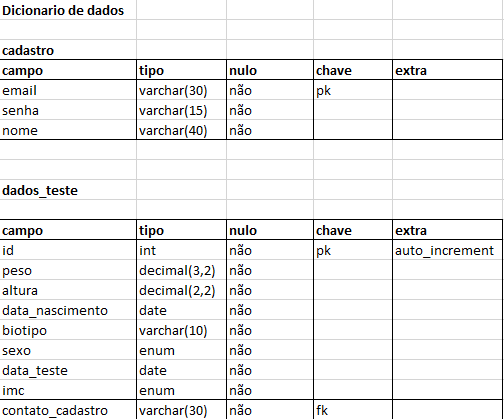
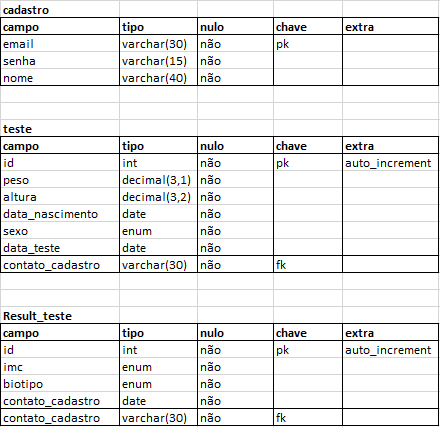
Fazendo sistema de cadastro sem iniciar teste

Changed region(s): [[0.0, 0.0, 1.0, 1.0]]

diff --git a/documentacao.html b/documentacao.html
@@ -253,7 +253,6 @@
             <textarea class="form-control" id="exampleFormControlTextarea1" rows="3">
                 create database guder_saude;
                 use guder_saude;
-                drop database guder_saude;
                 
                 create table cadastro(
                 email varchar(30) not null primary key,
@@ -261,18 +260,28 @@
                 nome varchar(40) not null
                 );
                 
-                create table dados_teste(
+                create table teste(
                 id int not null primary key auto_increment,
                 peso decimal(3,1) not null,		
                 altura decimal(3,2) not null,		
                 data_nascimento date not null, 		
-                biotipo	enum('endomorfo', 'mesomorfo', 'ectomorfo') not null,		
-                sexo enum ('feminino', 'masculino'), 		
-                data_teste	date not null, 		
-                imc	enum  ('abaixo','ideal','sobre peso','obsidade'),		
+                sexo enum ('f', 'm') not null, 		
+                data_teste	date not null, 			
                 contato_cadastro varchar(30) not null,	
                 foreign key (contato_cadastro) references cadastro(email)
                 );
+                
+                create table result_teste(
+                id int not null primary key auto_increment,
+                imc	enum  ('abaixo','ideal','sobre peso','obsidade I', 'obsidade II', 'obesidade III') not null,	
+                biotipo	enum('endomorfo', 'mesomorfo', 'ectomorfo') not null,
+                contato_cadastro varchar(30) not null,	
+                foreign key (contato_cadastro) references cadastro(email)
+                );
+                
+                insert into cadastro values ('kael@kael','123','kael');
+                insert into teste values ('1','80','1.70','2003/11/08','m',curdate(),'kael@kael'); 
+                insert into result_teste values ('1','ideal','ectomorfo', 'kael@kael');
 
             </textarea>
         </div>
@@ -301,7 +310,8 @@
             Semana 16/08->02/09 v03
         </h3>
         <h6>
-            Tela de teste do Biotipo feita; <br> Tela teste de imc feita <br> Back-end de login com session feita <br> Texto introdutivo temporario feito; <br> 3 perguntas do questionario incrementada;
+            Tela de teste do Biotipo feita; <br> Tela teste de imc feita; <br> Back-end de login com session feita; <br> Texto introdutivo temporario feito; <br> 3 perguntas do questionario incrementada; <br> Inicio do sistema de teste, com os dados de
+            IMC já indo para o banco de dados; <br> Houve nescidade de modificar o banco de dados, dividindo a tabela 'dados_teste', em duas tabelas 'teste' e 'result_teste' ;
 
         </h6>
 

diff --git a/login.html b/login.html
@@ -7,6 +7,8 @@
     <meta name="viewport" content="width=device-width, initial-scale=1.0">
     <link rel="stylesheet" href="./CSS/responsive.css">
     <link rel="stylesheet" href="./CSS/Login-cad.css">
+    <script src="./JavaScript/login.js"></script>
+    <script src="https://code.jquery.com/jquery-3.6.0.min.js" integrity="sha256-/xUj+3OJU5yExlq6GSYGSHk7tPXikynS7ogEvDej/m4=" crossorigin="anonymous"></script>
     <link href="https://cdn.jsdelivr.net/npm/bootstrap@5.1.0/dist/css/bootstrap.min.css" rel="stylesheet" integrity="sha384-KyZXEAg3QhqLMpG8r+8fhAXLRk2vvoC2f3B09zVXn8CA5QIVfZOJ3BCsw2P0p/We" crossorigin="anonymous">
     <script src="https://cdn.jsdelivr.net/npm/bootstrap@5.1.0/dist/js/bootstrap.bundle.min.js" integrity="sha384-U1DAWAznBHeqEIlVSCgzq+c9gqGAJn5c/t99JyeKa9xxaYpSvHU5awsuZVVFIhvj" crossorigin="anonymous"></script>
     <title>Login - Guder Saúde</title>
@@ -19,22 +21,26 @@
                 <img src="./IMGs/logo.png" alt="logo">
             </div>
             <div id="input-label">
-                <form action="#" method="post">
+                <form action="" method="post" id="logar">
                     <div class="form-floating mb-3">
-                        <input type="email" class="form-control" id="floatingInput" placeholder="Email@exemple.com">
+                        <input type="email" class="form-control" id="floatingInput" placeholder="Email@exemple.com" name="email">
                         <label for="floatingInput">Email</label>
                     </div>
                     <div class="form-floating">
-                        <input type="password" class="form-control" id="floatingPassword" placeholder="Senha">
+                        <input type="password" class="form-control" id="floatingPassword" placeholder="Senha" name="senha">
                         <label for="floatingPassword">Senha</label>
                     </div>
+
                     <p class="text-center" id="txt-cad">
                         Ei! É novo aqui? <a href="./cadastro.html"> Cadastre-se</a>
                     </p>
-                    <div class="text-center" id="bt-position">
-                        <button type="button" id="bt-entrar" class="btn btn-primary">ENTRAR</button>
-                    </div>
 
+                    <div class="text-center" id="bt-position">
+                        <button type="button" id="bt-entrar" class="btn btn-primary" onclick="login()">ENTRAR</button>
+                        <p style="color: red; margin-top: 20px;" id="resposta-login" class="text-center">
+
+                        </p>
+                    </div>
 
                 </form>
 

diff --git a/JavaScript/login.js b/JavaScript/login.js
@@ -1,0 +1,81 @@
+function login() {
+
+
+    var dados = $('#logar').serialize();
+    $.ajax({
+            method: 'POST',
+            url: './PHP/logar.php',
+            data: dados,
+
+            beforeSend: function() {
+
+                $("#bt-entrar").html("Por favor, aguarde...");
+
+            }
+
+        })
+        .done(function(msg) {
+
+            $("#bt-entrar").html("ENTRAR");
+
+            if (msg == "logado") {
+
+                location.href = "./index.php";
+
+            } else {
+                $("#resposta-login").html(msg);
+            }
+
+
+        })
+
+    .fail(function() {
+
+
+        $("##resposta-login").html("Erro desconhecido");
+
+    })
+    return false;
+
+}
+
+function login2() {
+
+
+    var dados = $('#logar').serialize();
+    $.ajax({
+            method: 'POST',
+            url: './PHP/logar.php',
+            data: dados,
+
+            beforeSend: function() {
+
+                $("#bt-entrar").html("Por favor, aguarde...");
+
+            }
+
+        })
+        .done(function(msg) {
+
+            $("#bt-entrar").html("ENTRAR");
+
+            if (msg == "logado") {
+
+                location.href = "./teste_imc.html";
+
+            } else {
+                $("#resposta-login").html(msg);
+            }
+
+
+        })
+
+    .fail(function() {
+
+
+        $("##resposta-login").html("Erro desconhecido");
+
+    })
+    return false;
+
+}

diff --git a/JavaScript/main.js b/JavaScript/main.js
@@ -39,42 +39,3 @@ function cadastrar() {
     return false;
 
 }
-
-function logar() {
-
-    var dados = $('#login').serialize();
-    $.ajax({
-            method: 'POST',
-            url: './PHP/logar.php',
-            data: dados,
-
-            beforeSend: function() {
-
-                $("#bt-entrar").html("Por favor, aguarde...");
-
-            }
-
-        })
-        .done(function(msg) {
-            if (msg == "logado") {
-
-                location.href = '../teste_imc.html'
-
-
-            } else {
-                $("#resposta-login").html(msg);
-
-                $("#bt-entrar").html("ENTRAR");
-            }
-
-        })
-
-    .fail(function() {
-
-        $("#resposta-login").html("Falha ao entrar");
-
-    })
-    return false;
-
-
-}

diff --git a/index.php b/index.php
@@ -1,3 +1,7 @@
+<?php session_start(); ?>
+
+
+
 <!DOCTYPE html>
 <html lang="pt-br">
 
@@ -6,8 +10,10 @@
     <meta http-equiv="X-UA-Compatible" content="IE=edge">
     <meta name="viewport" content="width=device-width, initial-scale=1.0">
     <script src="./JavaScript/main.js"></script>
+    <script src="./JavaScript/login.js"></script>
     <link rel="stylesheet" href="./CSS/style.css">
     <link rel="stylesheet" href="./CSS/responsive.css">
+    <script src="https://code.jquery.com/jquery-3.6.0.min.js" integrity="sha256-/xUj+3OJU5yExlq6GSYGSHk7tPXikynS7ogEvDej/m4=" crossorigin="anonymous"></script>
     <link href="https://cdn.jsdelivr.net/npm/bootstrap@5.1.0/dist/css/bootstrap.min.css" rel="stylesheet" integrity="sha384-KyZXEAg3QhqLMpG8r+8fhAXLRk2vvoC2f3B09zVXn8CA5QIVfZOJ3BCsw2P0p/We" crossorigin="anonymous">
     <script src="https://cdn.jsdelivr.net/npm/bootstrap@5.1.0/dist/js/bootstrap.bundle.min.js" integrity="sha384-U1DAWAznBHeqEIlVSCgzq+c9gqGAJn5c/t99JyeKa9xxaYpSvHU5awsuZVVFIhvj" crossorigin="anonymous"></script>
     <title>GUDER SAUDE - TESTE</title>
@@ -33,15 +39,14 @@
                         </li>
                         <li class="nav-item">
                             <div class="dropdown">
-                                <button type="submit" class="btn btn-outline-success rounded-circle " type="button" id="dropdownMenuButton1" data-bs-toggle="dropdown" aria-expanded="false"><svg  xmlns="http://www.w3.org/2000/svg" width="16" height="16" fill="currentColor" class="bi bi-person-circle" viewBox="0 0 16 16">
-                                    <path d="M11 6a3 3 0 1 1-6 0 3 3 0 0 1 6 0z" />
-                                    <path fill-rule="evenodd"
-                                        d="M0 8a8 8 0 1 1 16 0A8 8 0 0 1 0 8zm8-7a7 7 0 0 0-5.468 11.37C3.242 11.226 4.805 10 8 10s4.757 1.225 5.468 2.37A7 7 0 0 0 8 1z" />
-                                </svg></button>
+                                <button type="submit" class="btn btn-outline-success rounded-circle " type="button" id="dropdownMenuButton1" data-bs-toggle="dropdown" aria-expanded="false"><svg xmlns="http://www.w3.org/2000/svg" width="16" height="16" fill="currentColor" class="bi bi-person-circle" viewBox="0 0 16 16">
+                                        <path d="M11 6a3 3 0 1 1-6 0 3 3 0 0 1 6 0z" />
+                                        <path fill-rule="evenodd" d="M0 8a8 8 0 1 1 16 0A8 8 0 0 1 0 8zm8-7a7 7 0 0 0-5.468 11.37C3.242 11.226 4.805 10 8 10s4.757 1.225 5.468 2.37A7 7 0 0 0 8 1z" />
+                                    </svg></button>
                                 <ul class="dropdown-menu" aria-labelledby="dropdownMenuButton1">
                                     <li><a class="dropdown-item" href="./perfil_do_usuario.html">PERFIL</a></li>
-                                    <!-- <li><a class="dropdown-item" href="#">ENTRAR</a></li>
-                                    <li><a class="dropdown-item" href="#">SAIR</a></li> -->
+                                    <li><a class="dropdown-item" href="./login.html">ENTRAR</a></li>
+                                    <!-- <li><a class="dropdown-item" href="#">SAIR</a></li> -->
                                 </ul>
                             </div>
 
@@ -52,7 +57,7 @@
                 </div>
                 <li class="nav-item dropdown" id="drop-down-responsive">
                     <a class="nav-link dropdown-toggle" href="#" id="navbarDropdown" role="button" data-bs-toggle="dropdown" aria-expanded="false">
-                      Menu
+                        Menu
                     </a>
                     <ul class="dropdown-menu" aria-labelledby="navbarDropdown">
                         <li><a class="dropdown-item" href="./index.html">TESTE</a></li>
@@ -63,11 +68,10 @@
                         </li>
                         <li>
                             <a href="./perfil_do_usuario.html" class="nav-link">
-                                <button type="submit" class="btn btn-outline-success rounded-circle" id="bt-perfil"><svg  xmlns="http://www.w3.org/2000/svg" width="16" height="16" fill="currentColor" class="bi bi-person-circle" viewBox="0 0 16 16">
-                                <path d="M11 6a3 3 0 1 1-6 0 3 3 0 0 1 6 0z" />
-                                <path fill-rule="evenodd"
-                                    d="M0 8a8 8 0 1 1 16 0A8 8 0 0 1 0 8zm8-7a7 7 0 0 0-5.468 11.37C3.242 11.226 4.805 10 8 10s4.757 1.225 5.468 2.37A7 7 0 0 0 8 1z" />
-                            </svg></button>PERFIL
+                                <button type="submit" class="btn btn-outline-success rounded-circle" id="bt-perfil"><svg xmlns="http://www.w3.org/2000/svg" width="16" height="16" fill="currentColor" class="bi bi-person-circle" viewBox="0 0 16 16">
+                                        <path d="M11 6a3 3 0 1 1-6 0 3 3 0 0 1 6 0z" />
+                                        <path fill-rule="evenodd" d="M0 8a8 8 0 1 1 16 0A8 8 0 0 1 0 8zm8-7a7 7 0 0 0-5.468 11.37C3.242 11.226 4.805 10 8 10s4.757 1.225 5.468 2.37A7 7 0 0 0 8 1z" />
+                                    </svg></button>PERFIL
 
                             </a>
 
@@ -95,8 +99,24 @@
         </div>
 
         <div class="text-center">
-            <button class="btn btn-primary" type="button" data-bs-toggle="offcanvas" id="bt-inicio" data-bs-target="#offcanvasRight" aria-controls="offcanvasRight">Iniciar teste</button>
-            <!-- <a href="./teste_imc.html"><button class="btn btn-primary" type="button" id="bt-inicio">Iniciar teste</button></a> -->
+
+            <?php
+            if (!isset($_SESSION['documento'])) {
+
+            ?>
+                <button class="btn btn-primary" type="button" data-bs-toggle="offcanvas" id="bt-inicio" data-bs-target="#offcanvasRight" aria-controls="offcanvasRight">Iniciar teste</button>
+
+            <?php
+            } else {
+
+            ?>
+                <a href="./teste_imc.html"><button class="btn btn-primary" type="button" id="bt-inicio">Iniciar teste</button></a>
+
+            <?php
+
+            }
+            ?>
+
 
             <div class="offcanvas offcanvas-end" tabindex="-1" id="offcanvasRight" aria-labelledby="offcanvasRightLabel">
                 <div class="offcanvas-header">
@@ -109,7 +129,7 @@
                             <img src="./IMGs/logo.png" alt="logo" id="logo-login">
                         </div>
                         <div id="input-label">
-                            <form action="./PHP/logar.php" method="POST" id="login">
+                            <form action="" method="POST" id="logar">
                                 <div class="form-floating mb-3">
                                     <input type="email" class="form-control" id="email" placeholder="Email@exemple.com" name="email">
                                     <label for="email">Email</label>
@@ -121,8 +141,12 @@
                                 <p class="text-center" id="txt-cad">
                                     Ei! É novo aqui? <a href="./cadastro.html"> Cadastre-se</a>
                                 </p>
+                              
                                 <div class="text-center" id="bt-position">
-                                    <button type="submit" id="bt-entrar" class="btn btn-primary">ENTRAR</button>
+                                    <button type="button" id="bt-entrar" class="btn btn-primary" onclick="login2()">ENTRAR</button>
+                                    <p style="color: red; margin-top: 20px;" id="resposta-login" class="text-center">
+
+                                    </p>
                                 </div>
 
                             </form>

diff --git a/PHP/logar.php b/PHP/logar.php
@@ -11,14 +11,13 @@ if(isset($_POST["email"]) && !empty($_POST["email"])
     $senha= addslashes( $_POST["senha"]);
 
     if($user->login($email, $senha) == true){
-        header("Location: ../teste_imc.html");
+        $retorno = "logado";
 
     }else{
-        echo "<script>alert('Cadastro Inexistente');";
-        echo "location.href='../index.html'</script>";
+       $retorno = "Cadastro Inexistente";
     }
 
 }else{
-    header("Location: ../index.html");
+    $retorno = "Digite todos os campos";
 }
-
+echo $retorno;

diff --git a/PHP/imc.php b/PHP/imc.php
@@ -31,8 +31,8 @@ $idade = $cad->idade($data_nascimento);
 
 
 
-// if($cad->teste($data_nascimento,$altura, $peso,$sexo, $email) == true){
+if($cad->teste($data_nascimento,$altura, $peso,$sexo, $email) == true){
     
-// }else{
-//     echo "<script>alert('Ops deu algo de errado :( ');";
-// }
+}else{
+    echo "<script>alert('Ops deu algo de errado :( ');";
+}
